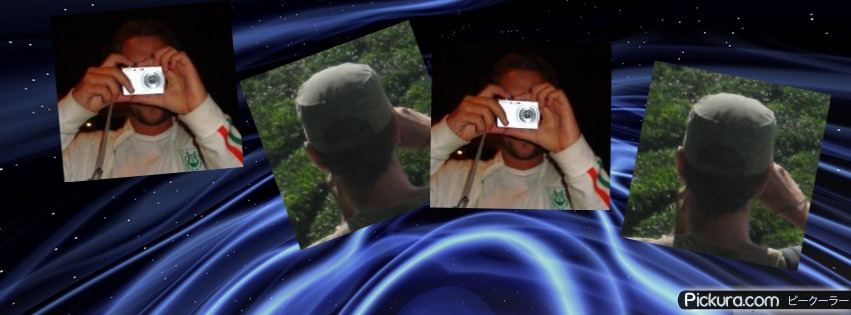
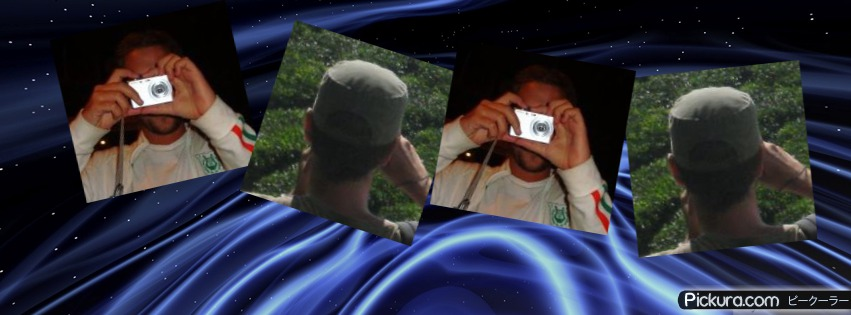
Creator

Changed region(s): [[0.0611, 0.0571, 0.9777, 0.8571], [0.0917, 0.0286, 0.1833, 0.0571]]

diff --git a/app/assets/stylesheets/editor.css.less b/app/assets/stylesheets/editor.css.less
@@ -1,3 +1,12 @@
+.title_creator {
+  width:840px;
+  text-align:center;
+  font-family: StreetHumoresque;
+  font-size: 24pt;  
+  color: #fff;
+  margin-bottom: 20px;
+}
+
 .content .editor {
   .form-actions a.btn {
     width: 180px;
@@ -38,6 +47,36 @@
   }
   
   .step2 {
+    display: block;
+  }
+}
+
+#creator {
+  .photo {
+    .img {
+      position: relative;
+    }
+    .hover {
+      /*background: url("../images/common/modal-background.png") repeat scroll 0 0 transparent;*/
+      background-color: black;
+      opacity: 0.8;
+      display: none;
+      height: 246px;
+      position: absolute;
+      top: 0;
+      width: 664px;
+      z-index: 1000;
+      .msg {
+        color: #FFFFFF;
+        font-size: 25px;
+        font-style: italic;
+        font-weight: 600;
+        text-align: center;
+        line-height: 246px;
+      }
+    }
+  }
+  .photo:hover .hover {
     display: block;
   }
 }

diff --git a/app/assets/javascripts/editor.js b/app/assets/javascripts/editor.js
@@ -1,6 +1,5 @@
  var Editor = {
   initialize: function(){
-  	console.log('initializing');
   	$('.sticker').click(function(){
         Editor.newSticker($(this).attr('src'));
   	});
@@ -55,3 +54,9 @@ var Picker = {
 }
 
 Editor.initialize();
+
+$(function(){
+  $('.generate-link').click(function(){
+    $('#generating_modal').modal('show');
+  });
+});

diff --git a/app/services/collage.rb b/app/services/collage.rb
@@ -1,13 +1,14 @@
 class Collage
+  WIDTH = 851
+  HEIGHT = 315
+
   def self.generate
     require 'RMagick'
     include Magick
     tiles = []
-    #def drowit(tiles, board_details, size)
-    width = 851
-    height = 315
-    #cat = Image.new(width, height)
+
     cat = ImageList.new("#{Rails.root}/public/images/collage/background.png")
+
     ['1.jpg', '2.jpg', '1.jpg', '2.jpg'].each_with_index do |name, i|
       image = ImageList.new("#{Rails.root}/public/images/collage/#{name}")
       image.background_color = "none"
@@ -22,5 +23,44 @@ class Collage
 
     file_path = "#{Rails.root}/public/images/collage/output.jpg"
     cat.write(file_path)
+  end
+
+  def self.echo(user)
+    require 'RMagick'
+    include Magick
+
+    # Download profile picture
+    photo_url = user.avatar.url
+    photo = open(URI.parse(photo_url))
+    image = ImageList.new
+    image.from_blob(photo.read)
+
+    image.scale!(125, 125)
+
+    #cover = ImageList.new("#{Rails.root}/public/images/collage/background.png")
+    cover = Magick::Image.new(WIDTH, HEIGHT)
+    rgb = '#000'
+    cover = cover.colorize(1,1,1, rgb)
+
+    image_with_border = add_border(image)
+
+    5.downto(0).each do |i|
+      y = HEIGHT - 125 - 20 - i*40
+      x = i*60 + 85
+      #image_with_border.opacity = Magick::MaxRGB * 0.1 * i
+      cover.composite!(image_with_border, x, y, OverCompositeOp)
+    end
+
+    out = "#{Rails.root}/tmp/#{Time.now.to_i}.jpg"
+    cover.write(out)
+
+    out
+  end
+
+  def self.add_border(image)
+    border = ImageList.new("#{Rails.root}/public/images/collage/photo-border.png")
+    # TODO: centrar
+    border.composite!(image, 4, 4, OverCompositeOp)
+    border
   end
 end

diff --git a/app/controllers/covers_controller.rb b/app/controllers/covers_controller.rb
@@ -18,25 +18,26 @@ class CoversController < ApplicationController
 
     render :index
   end
-  
+
   def most_popular
     @covers       = Photo.search(:page => params[:page], :per_page => params[:per_page], :sorting => 'counter DESC, updated_at DESC, id DESC')
     @tags         = Photo.relevant_tags
     @current_tag  = params[:tags]
     @most_popular = true
     @title = @current_tag.titleize if @current_tag
-    
+
     render :index
   end
- 
+
   def editor_pick
     @covers      = Photo.search(:page => params[:page], :per_page => params[:per_page], 
                     :tags => 'featured', :tag_type => :categories, :sorting => 'updated_at DESC, counter DESC, id DESC')
+
     @tags        = Photo.relevant_tags
     @current_tag = params[:tags]
     @editor_pick = true
     @title = @current_tag.titleize if @current_tag
-    
+
     render :index
   end
 
@@ -57,14 +58,14 @@ class CoversController < ApplicationController
     # track redirects?
     redirect_to gallery_show_path(cover)
   end
-  
+
   def show
     @cover = Photo.find(params[:id])
     @tags  = Photo.relevant_tags('count desc', 17)
     @title = @cover.name
-    @cover.increase_viewCount
+    @cover.increase_view_count!
   end
 
-  def premium
+  def creator
   end
 end

diff --git a/app/controllers/creator_controller.rb b/app/controllers/creator_controller.rb
@@ -1,0 +1,26 @@
+class CreatorController < ApplicationController
+  def index
+    @models = []
+    @models << {:title => 'Echo', :name => :echo, :sample => 'echo.jpg'}
+    @models << {:title => 'Museum Wall', :name => :soon, :sample => 'array.png'}
+    @models << {:title => 'Stack of Polaroids', :name => :soon, :sample => 'stack.jpg'}
+  end
+
+  def show
+    @cover = CustomCover.where(:user_id => current_user.id, :id => params[:id]).first
+  end
+
+  def new
+    case params[:model]
+    when 'echo'
+      #@cover = CustomCover.where(:user_id => current_user.id).first
+      unless @cover
+        cover_image = Collage.echo(current_user)
+        @cover = CustomCover.create!(:user => current_user, :source => open(cover_image))
+      end
+      redirect_to creator_cover_path(@cover)
+    else
+      render :text => 'cooming_soon'
+    end
+  end
+end

diff --git a/config/routes.rb b/config/routes.rb
@@ -31,6 +31,9 @@ Covers::Application.routes.draw do
   post  'subscribe'             => 'home#subscribe',        :as => :subscribe
   post  'unsubscribe'           => 'home#unsubscribe',      :as => :unsubscribe
 
-
+  get   'creator'               => 'creator#index'
+  get   'creator/echo'          => 'creator#show'
+  get  'creator/new'            => 'creator#new',           :as => :generate_cover
+  get  'creator/:id'            => 'creator#show',          :as => :creator_cover
   root :to => 'home#index'
 end

diff --git a/app/models/photo.rb b/app/models/photo.rb
@@ -74,14 +74,14 @@ class Photo < ActiveRecord::Base
     end
   end
 
-  def increase_viewCount
+  def increase_view_count!
     ActiveRecord::Base.transaction do
       self.counter = self.counter + 1
       self.save!
     end
   end
 
-  def increase_downloadCount
+  def increase_download_count!
     ActiveRecord::Base.transaction do
       self.counter_downloads = self.counter_downloads + 1
       self.save!

diff --git a/app/controllers/editor_controller.rb b/app/controllers/editor_controller.rb
@@ -6,7 +6,7 @@ class EditorController < ApplicationController
 
   def download
     #redirect_to @cover.source.branded.url, :type => 'image/jpeg'
-    @cover.increase_downloadCount
+    @cover.increase_download_count!
     file = open(@cover.source.branded.url)
     send_file file, :type => 'image/jpeg', :filename => File.basename(@cover.source.url)
   end

diff --git a/db/migrate/20120307183954_create_custom_covers.rb b/db/migrate/20120307183954_create_custom_covers.rb
@@ -1,0 +1,10 @@
+class CreateCustomCovers < ActiveRecord::Migration
+  def change
+    create_table :custom_covers do |t|
+      t.string :source
+      t.references :user
+
+      t.timestamps
+    end
+  end
+end

diff --git a/app/models/custom_cover.rb b/app/models/custom_cover.rb
@@ -1,0 +1,9 @@
+class CustomCover < ActiveRecord::Base
+  belongs_to :user
+
+  mount_uploader :source, PhotoUploader
+
+  def watermark_position
+    :south_east
+  end
+end

diff --git a/spec/models/custom_cover_spec.rb b/spec/models/custom_cover_spec.rb
@@ -1,0 +1,5 @@
+require 'spec_helper'
+
+describe CustomCover do
+  pending "add some examples to (or delete) #{__FILE__}"
+end
